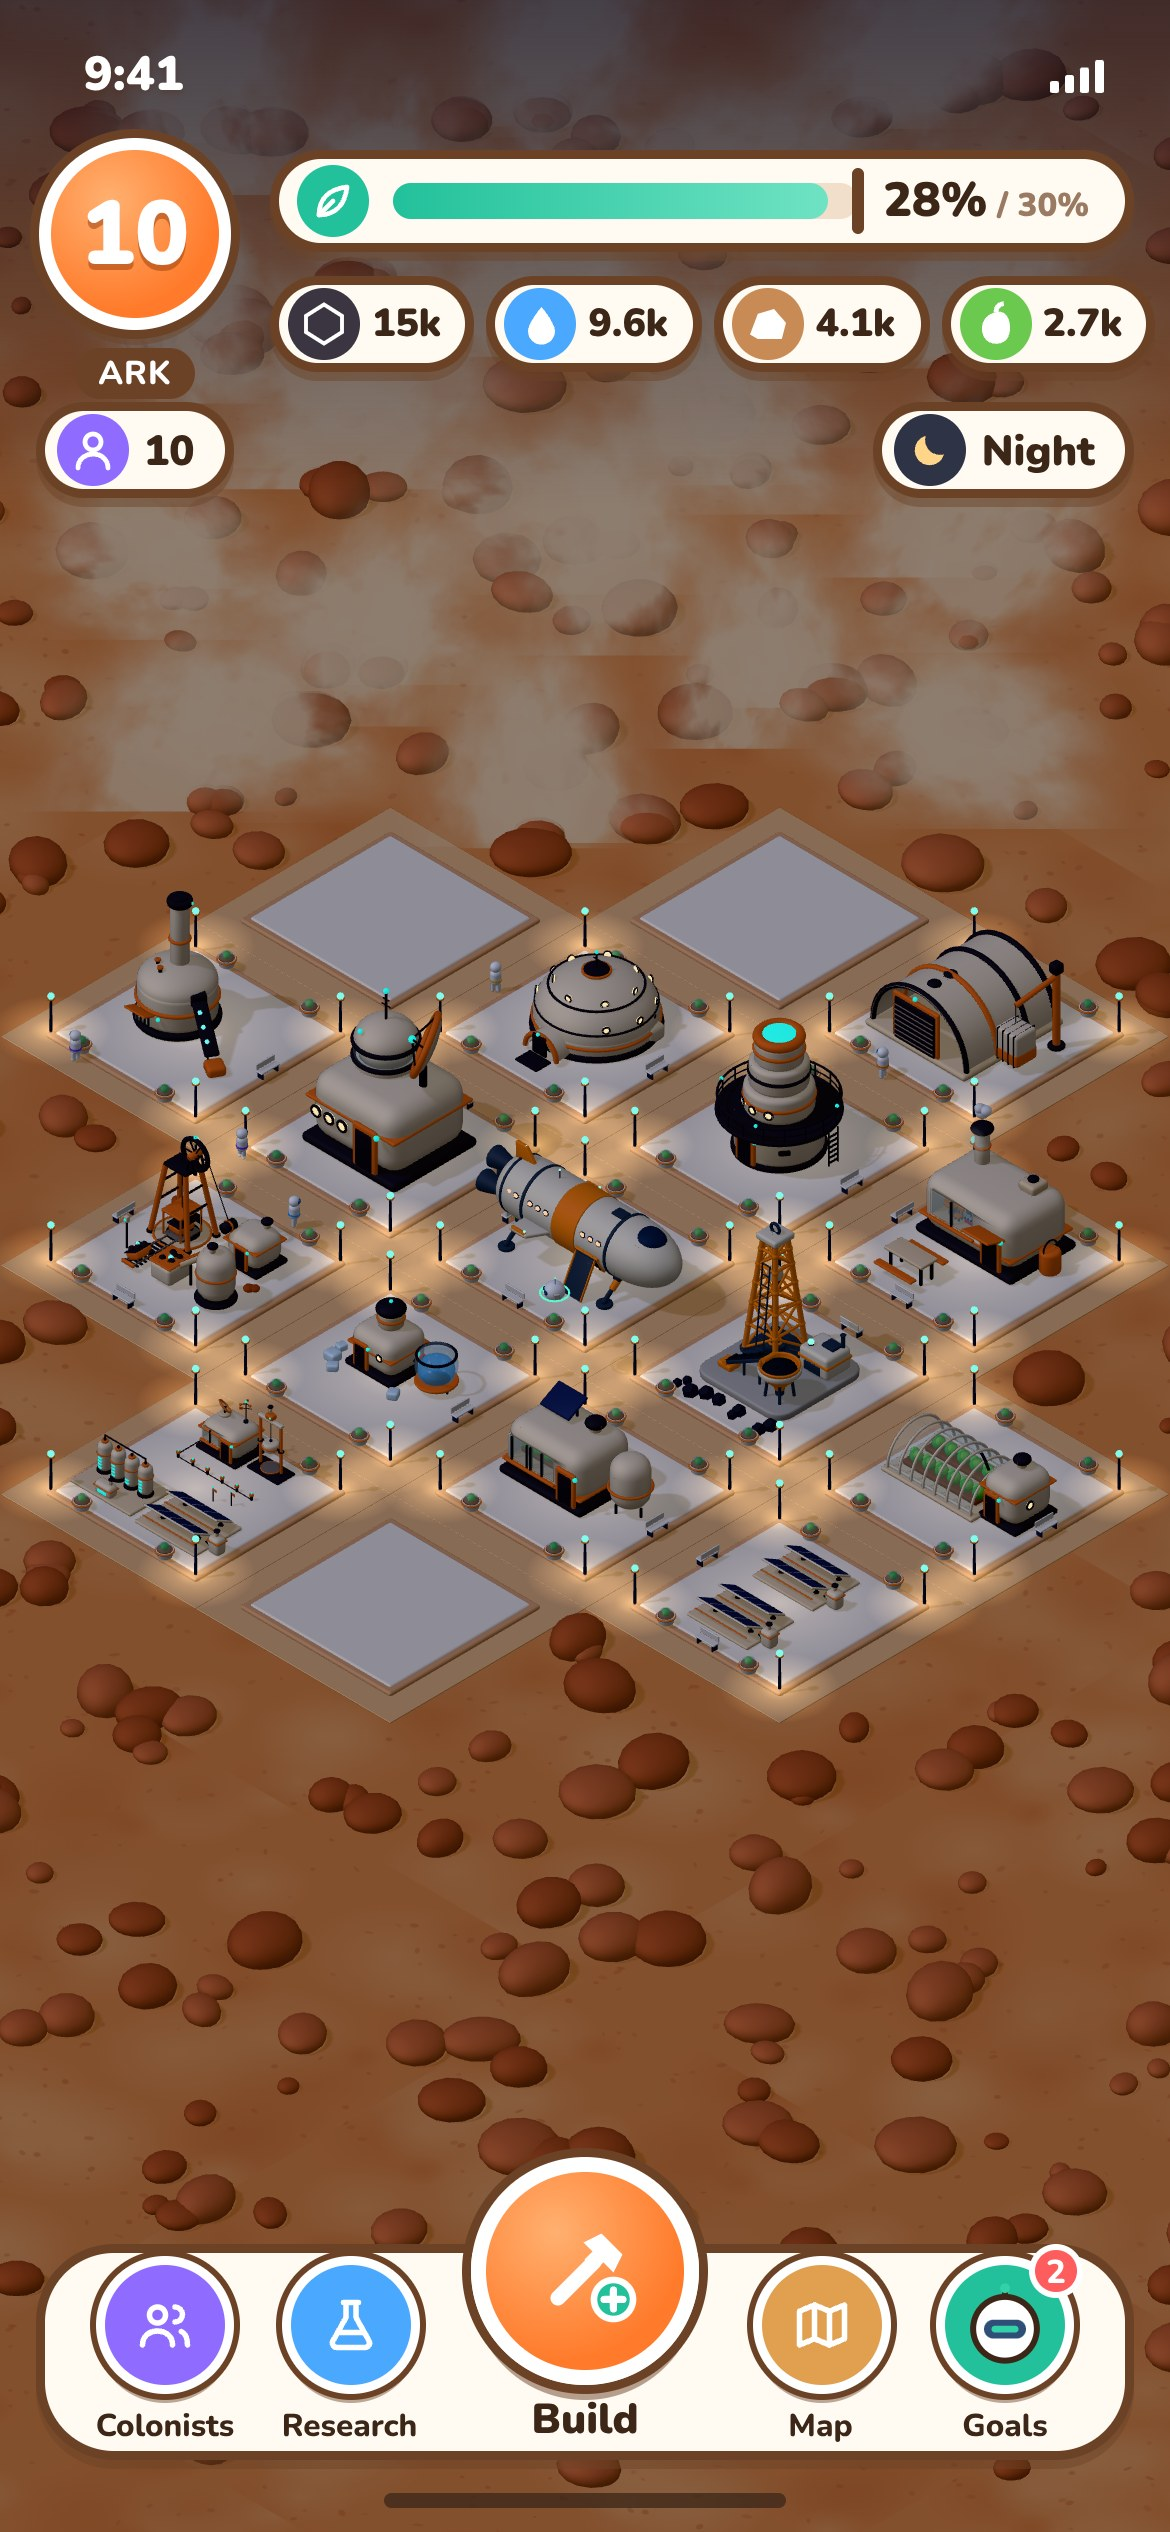
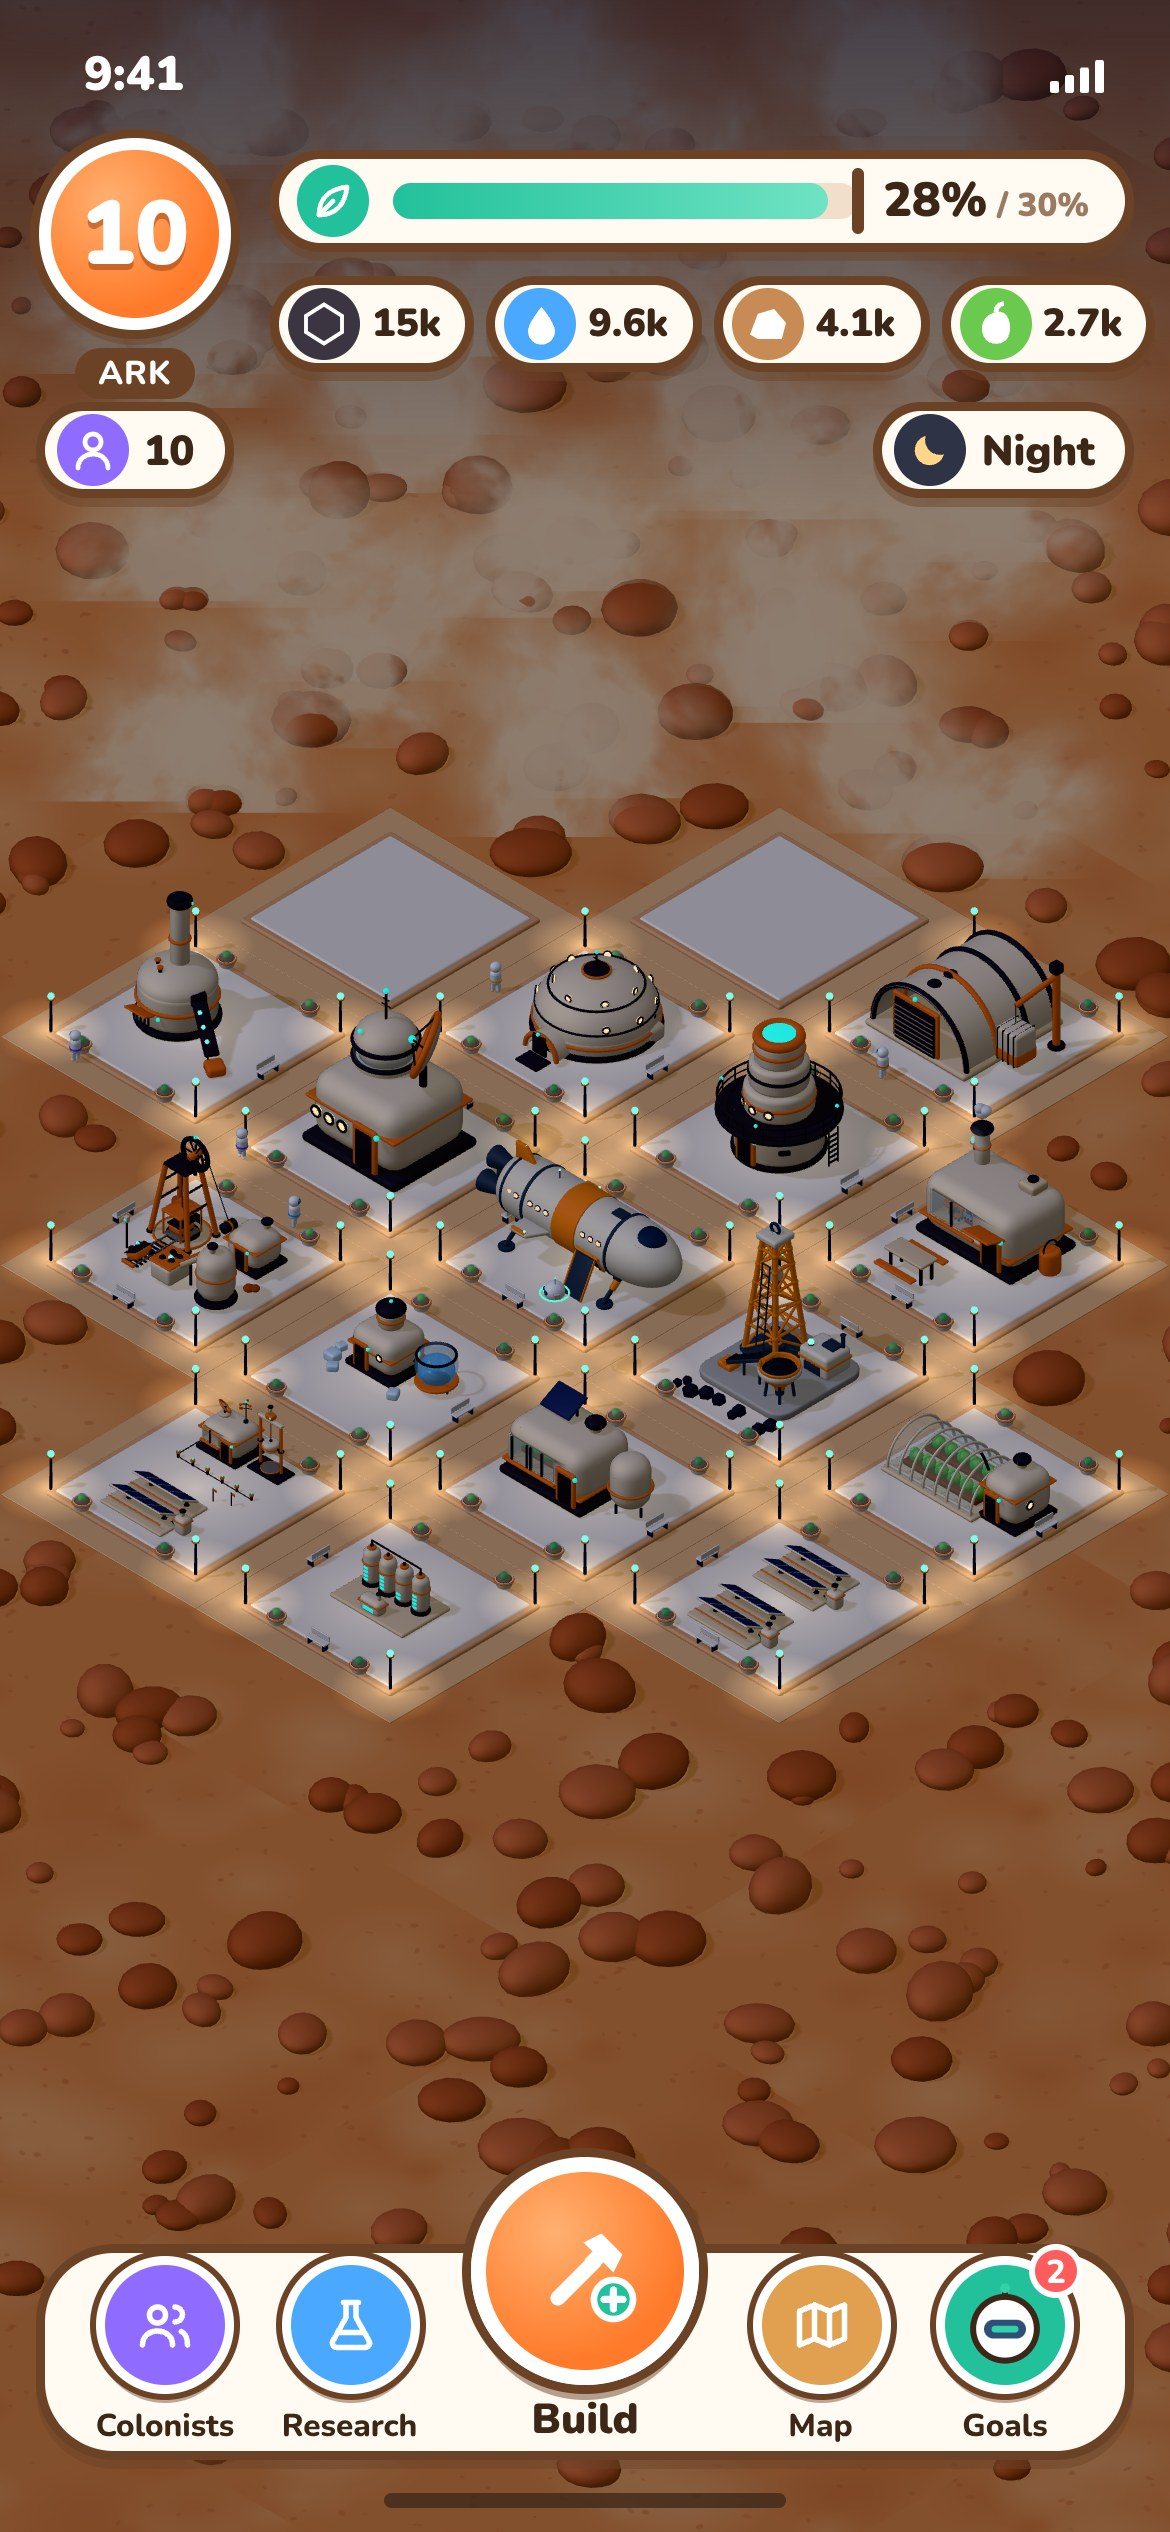
Give the batteries a plot of their own on the level-10 map
Claude-Session: https://claude.ai/code/session_01HQgMkkMykx5FREJ1ytQ62g

diff --git a/mockup/src/map.js b/mockup/src/map.js
@@ -336,6 +336,9 @@ if (LVL10) Object.assign(base, {
   '-2,0': b => add(kk('mine', 10), b.cx, 0.4, b.cz, 0),
   '-2,-2': b => add(noSmoke(kk('furnace', 8.8)), b.cx, 0.4, b.cz, 0),
   '1,3': b => { add(kk('solar', 6.0), b.cx, 0.4, b.cz - 2.7, 0); add(kk('solar', 6.0), b.cx, 0.4, b.cz + 2.7, 0); },
+  // the batteries have a plot of their own, next to the panels by the geolocator (Joro, 05.11.2026)
+  '-2,2': b => { add(kk('geolocator', 6.4), b.cx, 0.4, b.cz - 2.7, 0); add(kk('solar', 6.0), b.cx, 0.4, b.cz + 2.9, 0); },
+  '-1,3': b => add(kk('batteries', 6.0), b.cx, 0.4, b.cz, 0),
 });
 const builtBlocks = [];
 for (const b of blocks) {

diff --git a/mockup/README.md b/mockup/README.md
@@ -25,7 +25,7 @@
 | `map-kk-20.jpg`, `map-kk-50.jpg` | Примерната карта (`map.html#kk20`, `#kk50`) със сградите в избрания стил; мината е тунел в скалата при 20% и шахта с кула при 50%; Ковчегът и сондата са от CellCog |
 | `map-kk-20-zoom-a.jpg`, `map-kk-20-zoom-b.jpg`, `map-kk-20-zoom-c.jpg` | Същата карта отблизо: купол, рисърч, процесор, лаборатория, помпа, мина, геолокатор, панели и батерии |
 | `map-kk-20-night.jpg` | Същата карта нощем: светят прозорците и тюркоазените светлинки |
-| `map-lvl10.jpg`, `map-lvl10-night.jpg` | Колонията на ниво 10, краят на глава 1 (`map.html#lvl10`, `#lvl10-night`): атмосфера 28%, 10 будни. Само сградите, които `docs/levels.md` има до ниво 10, по една от всяка: Ковчегът, геолокаторът, карбоновата сонда, помпата, атмосферният процесор, лабораторията за зеленчуци, рисърч сградата, мината (вече шахта, нивото на смяната е предложение), жилищният купол, общата кухня, складът, силициевата пещ (с филтъра от ниво 6, без дим), слънчевите панели (в два парцела), батериите и оранжерията. Кариерата я няма, защото мината я замени. Празните парцели от разширяването на зоната I са само очертани, а зоната II е още под прах |
+| `map-lvl10.jpg`, `map-lvl10-night.jpg` | Колонията на ниво 10, краят на глава 1 (`map.html#lvl10`, `#lvl10-night`): атмосфера 28%, 10 будни. Само сградите, които `docs/levels.md` има до ниво 10, по една от всяка: Ковчегът, геолокаторът, карбоновата сонда, помпата, атмосферният процесор, лабораторията за зеленчуци, рисърч сградата, мината (вече шахта, нивото на смяната е предложение), жилищният купол, общата кухня, складът, силициевата пещ (с филтъра от ниво 6, без дим), слънчевите панели (при геолокатора и в парцела до оранжерията), батериите (в свой парцел до панелите) и оранжерията. Кариерата я няма, защото мината я замени. Празните парцели от разширяването на зоната I са само очертани, а зоната II е още под прах |
 | `map-lvl10-left.jpg`, `map-lvl10-right.jpg` | Същата карта на ниво 10 отблизо, лявата и дясната половина |
 
 До мината е кариерата, където се копае камъкът: при 20% колонисти с кирки, при 50% багер и конвейер, при 85% по-дълбок изкоп, голям багер, лампи и кран. По тротоарите има лампи на всеки ъгъл, пейки, саксии, цветя и продълговати живи плетове, пешеходни пътеки на кръстовищата и малки електрически коли; в парковете плетове около тревата, пейки и фонтан, а на площада паметник на Ковчега; и те се подобряват: при 20% растенията са под стъклени камбани (въздухът навън още е рядък), при 50% храсти, при 85% дървета.

diff --git a/docs/notes.md b/docs/notes.md
@@ -121,6 +121,7 @@
 
 | Дата | Промяна | Статус |
 | --- | --- | --- |
+| 05.11.2026 | Жоро: на картата на ниво 10 батериите трябва да имат отделен парцел, не с геолокатора. Преместени са в свой парцел до панелите при геолокатора; там остават геолокаторът и панелите. Кадрите map-lvl10*.jpg са направени наново | Готово |
 | 05.11.2026 | Жоро: картата на ниво 10, само със сградите до ниво 10, без нови. В макета е map.html#lvl10 (и #lvl10-night), атмосфера 28%, 10 будни: Ковчегът, геолокаторът, сондата, помпата, процесорът, лабораторията, рисърчът, мината (шахта, по предложението за ниво 10 на мината), куполът, кухнята, складът, пещта (с филтър, без дим), панелите в два парцела, батериите и оранжерията, по една от всяка. Кариерата и вторият процесор отпаднаха. Празните парцели на зоната I са очертани, зоната II е под прах. Кадрите са mockup/screens/map-lvl10*.jpg | Готово |
 | 05.11.2026 | Жоро избра геолокатора Г5, сеизмичната станция, и го сложи на картата. Сега той е art/3d/buildings/geolocator.glb и се прави от src/build.py; старият кръгъл е запазен в ideas/geolocator-old.glb. В макета (map.html#kk…) геолокаторът заема задната половина на парцела, а панелите и батериите отиват отпред. Обновени са кадрите map-kk-20, map-kk-50, map-kk-20-night, map-kk-20-zoom-c, каталогът и buildings-kk | Готово |
 | 05.11.2026 | Жоро: още вариации на геолокатора. Направени са четири нови идеи: Г4 сондажна кула (лебедка спуска сонда в сондажа), Г5 сеизмична станция (тежест пада върху плоча, датчиците в земята чуват ехото), Г6 станция с дрон (дронът каца на покрива), Г7 сегашният, допълнен (прозорец към пулта, сонда, сандък със запаси). Проверени отгоре и от четирите страни; моделите и картинката geolocator-ideas-2.jpg са в art/3d/buildings/ideas, скриптът е src/geolocator_ideas2.py. Жоро избра Г5 | Готово |
